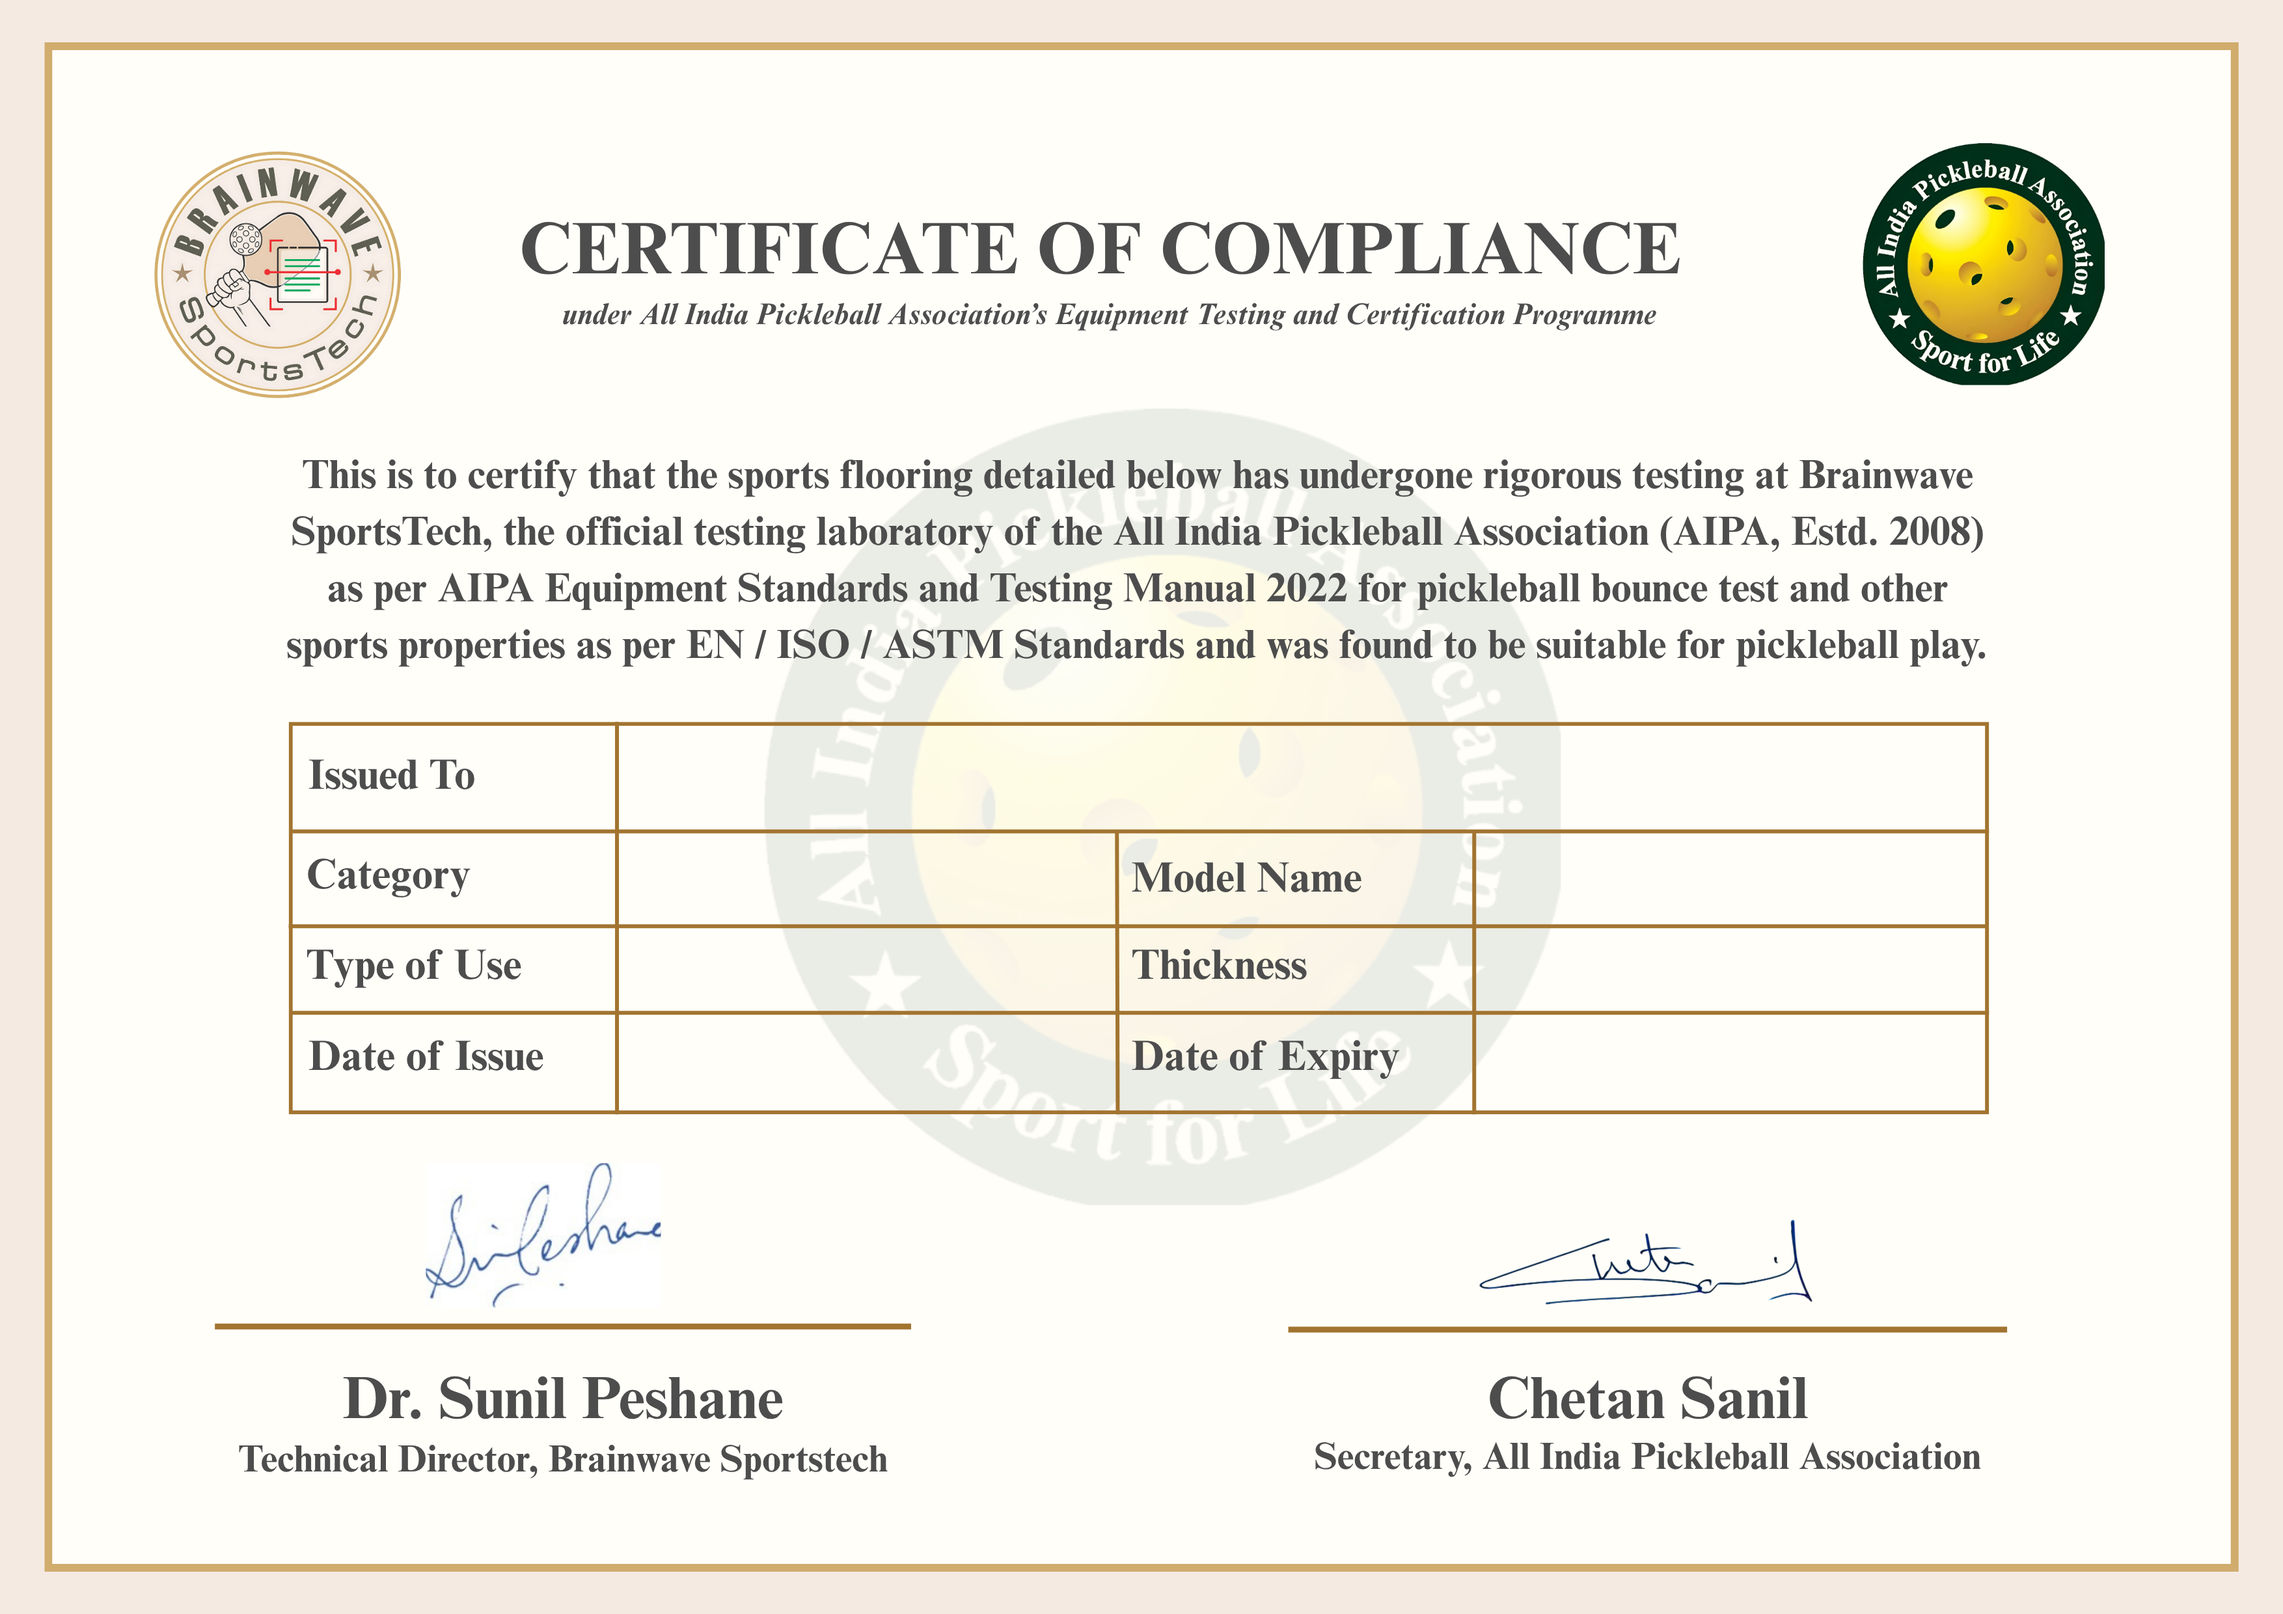
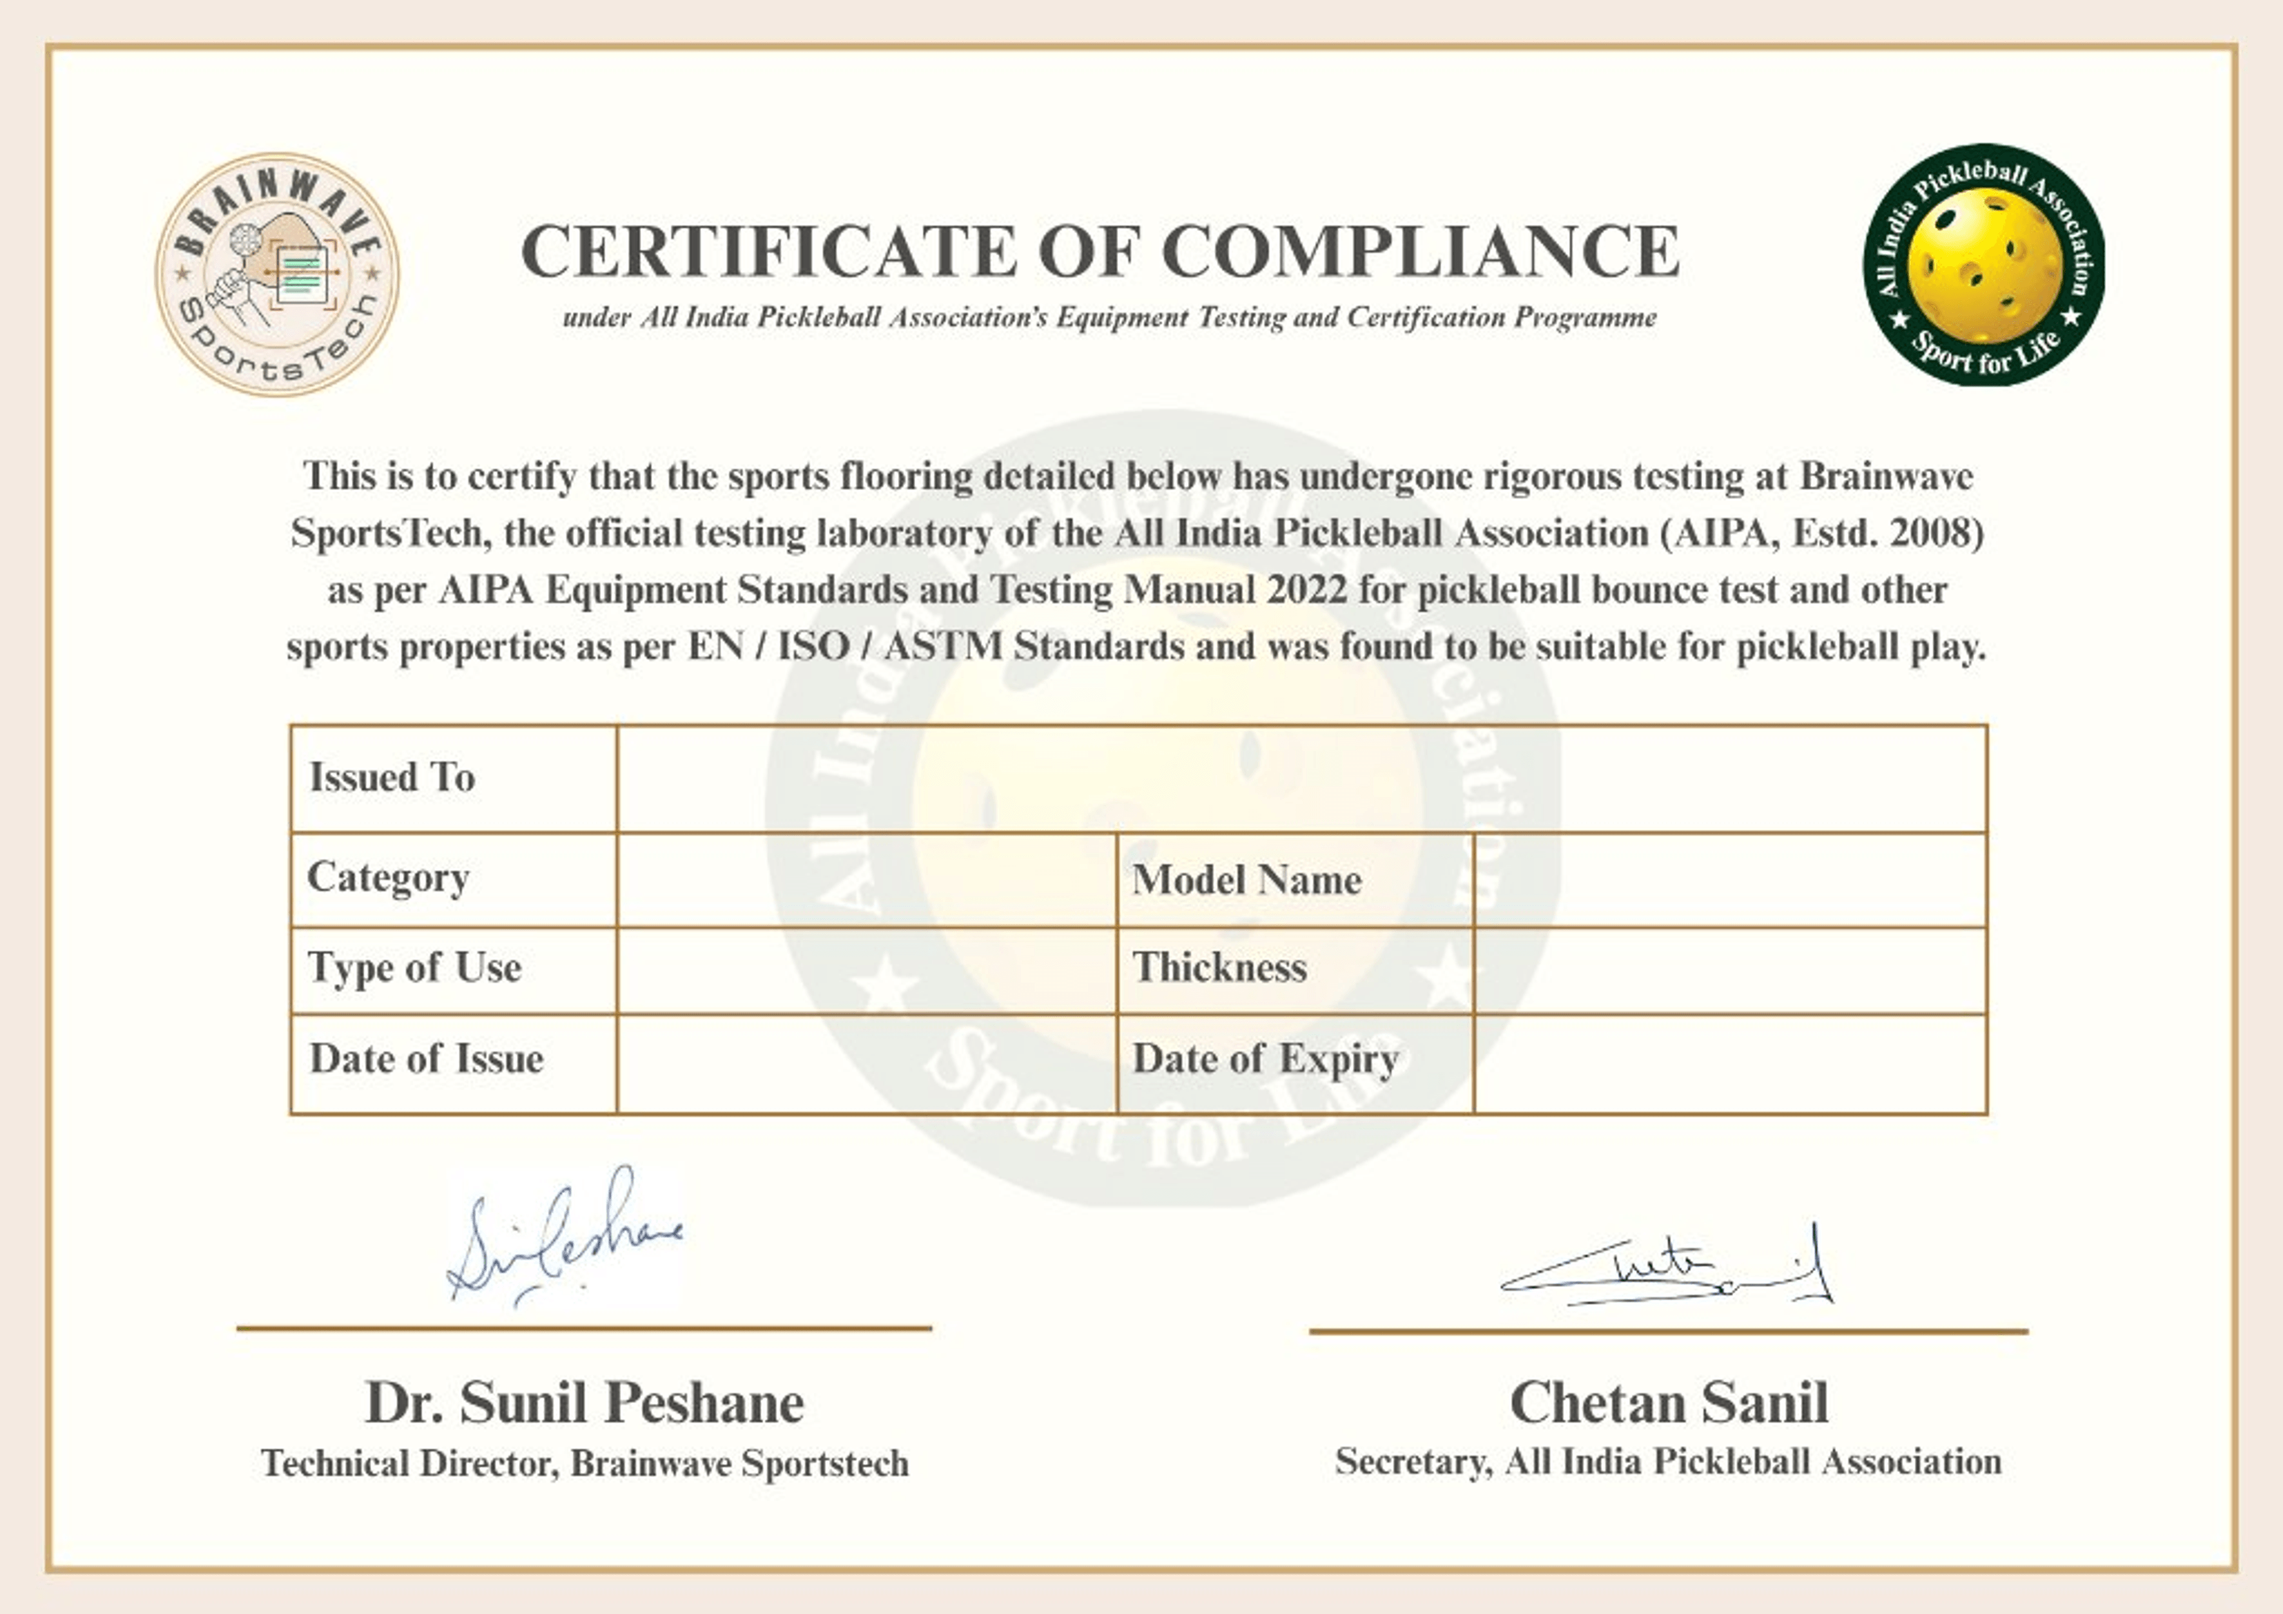
feat(certificates): update court/flooring certificate template, align text grid, support Court category

diff --git a/src/app/api/generateCertificate/route.js b/src/app/api/generateCertificate/route.js
@@ -81,12 +81,12 @@ export async function POST(req) {
     const order = orderSnap.data()
     const category = order.category || order.type
 
-    if (category !== "Paddle" && category !== "Ball" && category !== "Flooring") {
-      return NextResponse.json({ message: "Certificates only available for Paddle, Ball, and Flooring" }, { status: 400 })
+    if (category !== "Paddle" && category !== "Ball" && category !== "Flooring" && category !== "Court") {
+      return NextResponse.json({ message: "Certificates only available for Paddle, Ball, Flooring, and Court" }, { status: 400 })
     }
 
     // Determine type code
-    const typeCode = category === "Paddle" ? "PDL" : category === "Flooring" ? "FLR" : "BLL"
+    const typeCode = category === "Paddle" ? "PDL" : category === "Ball" ? "BLL" : category === "Court" ? "CRT" : "FLR"
     const financialYear = getFinancialYear()
 
     let certificateNumber = order.certificateNumber
@@ -162,7 +162,7 @@ export async function POST(req) {
     let templateFilename = "certificate-paddle.png"
     if (category === "Ball") {
       templateFilename = "certificate-ball.png"
-    } else if (category === "Flooring") {
+    } else if (category === "Flooring" || category === "Court") {
       templateFilename = "certificate-flooring.png"
     }
 
@@ -202,7 +202,7 @@ export async function POST(req) {
 
     const companyName = rawCompanyName.toUpperCase()
     const modelName = rawModelName.toUpperCase()
-    const categoryDisplay = category === "Flooring" ? "SPORTS FLOORING" : category === "Ball" ? "PICKLEBALL BALL" : "PICKLEBALL PADDLE"
+    const categoryDisplay = category === "Flooring" || category === "Court" ? "SPORTS FLOORING" : category === "Ball" ? "PICKLEBALL BALL" : "PICKLEBALL PADDLE"
 
     // Row 3 values depending on category
     let row3Col1Value = "N/A"
@@ -220,7 +220,7 @@ export async function POST(req) {
       // Col 1: Type of Use, Col 2: Number of Holes
       row3Col1Value = (order.useType || order.typeOfUse || order?.ballDetails?.useType || "Indoor").toUpperCase()
       row3Col2Value = (order.numberOfHoles || order?.ballDetails?.numberOfHoles || "N/A").toString().toUpperCase()
-    } else if (category === "Flooring") {
+    } else if (category === "Flooring" || category === "Court") {
       // Col 1: Type of Use, Col 2: Thickness
       row3Col1Value = (order.useType || order.typeOfUse || "Indoor").toUpperCase()
       let flooringThickness = order.totalThickness || order.thickness || order.flooringThickness
